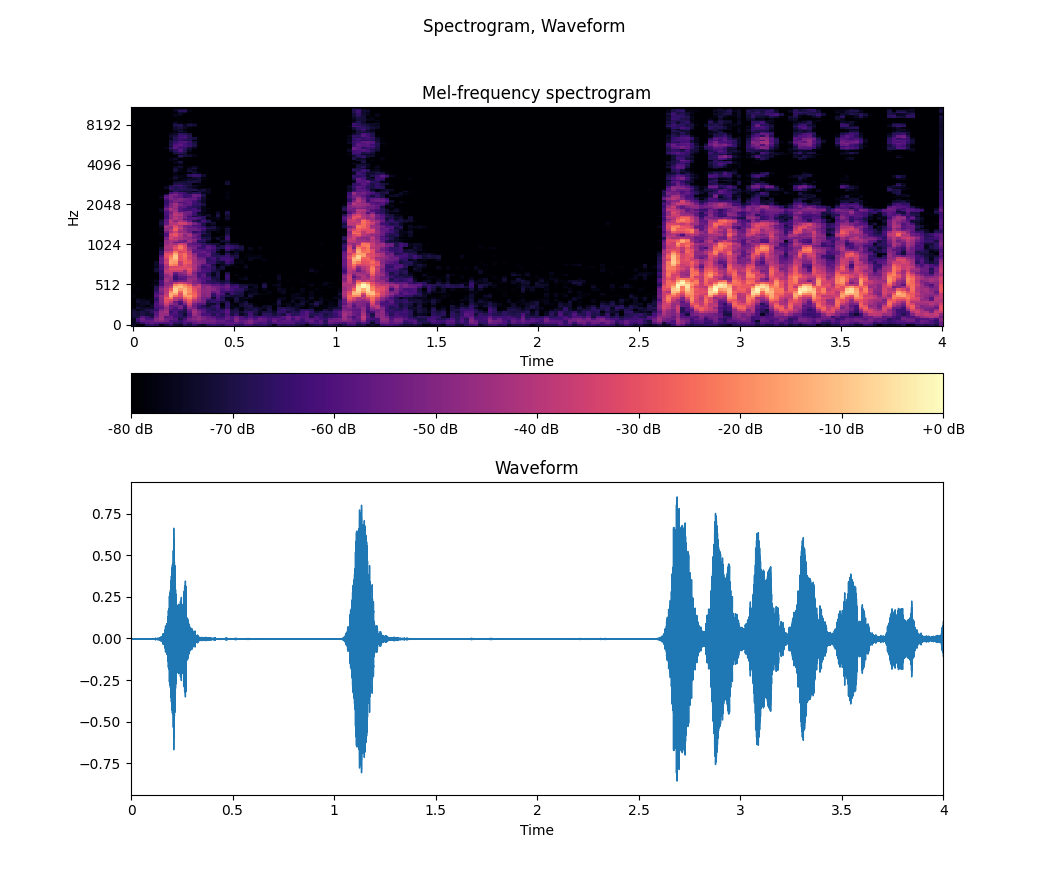
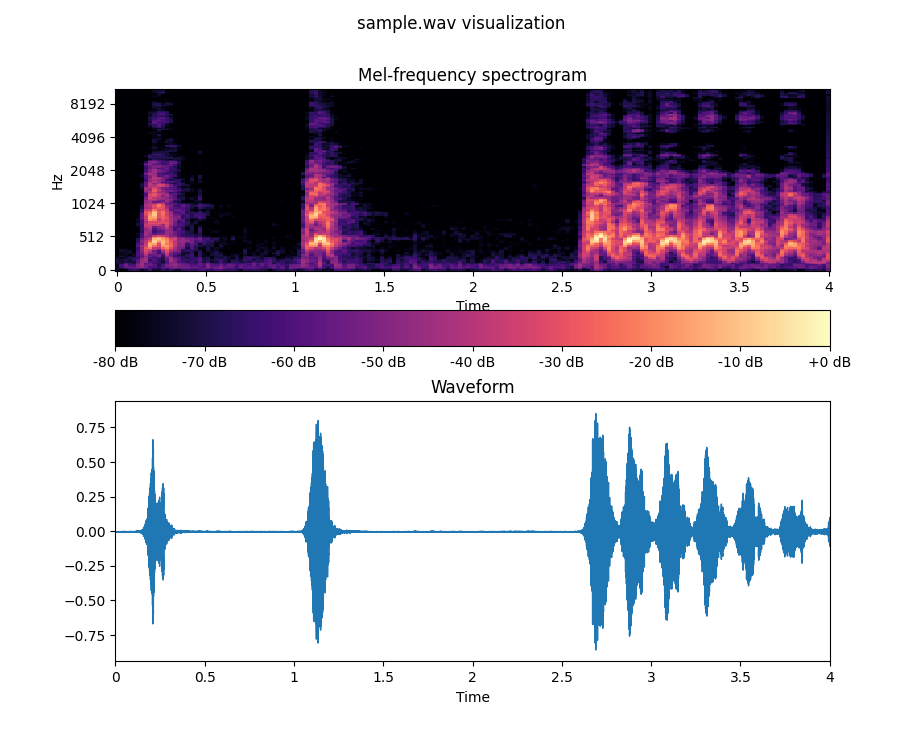
Improved printing/display

diff --git a/training/visualization.py b/training/visualization.py
@@ -19,17 +19,17 @@ S_DB = librosa.power_to_db(S, ref=np.max)
 print(f'Shape of S: {S.shape}')
 
 fig, axs = plt.subplots(2)
-fig.suptitle('Spectrogram, Waveform')
+fig.suptitle(f'{filename} visualization')
 
 librosa.display.specshow(S_DB, sr=sample_rate, x_axis='time', y_axis='mel', ax=axs[0])
 axs[0].set_title('Mel-frequency spectrogram')
-
 fig.colorbar(mappable=axs[0].collections[0], ax=axs[0], format='%+2.0f dB', orientation='horizontal')
-
-#plt.colorbar(format='%+2.0f dB')
 
 librosa.display.waveshow(trimmed_sample, sr=sample_rate, ax=axs[1])
 axs[1].set_title('Waveform')
 axs[1].set_xlim([0, len(trimmed_sample) / sample_rate])
+
+print(f'Min, max spectrogram value: {(np.min(S_DB), np.max(S_DB))}')
+print(f'S_DB datatype: {S_DB.dtype}')
 
 plt.show()
